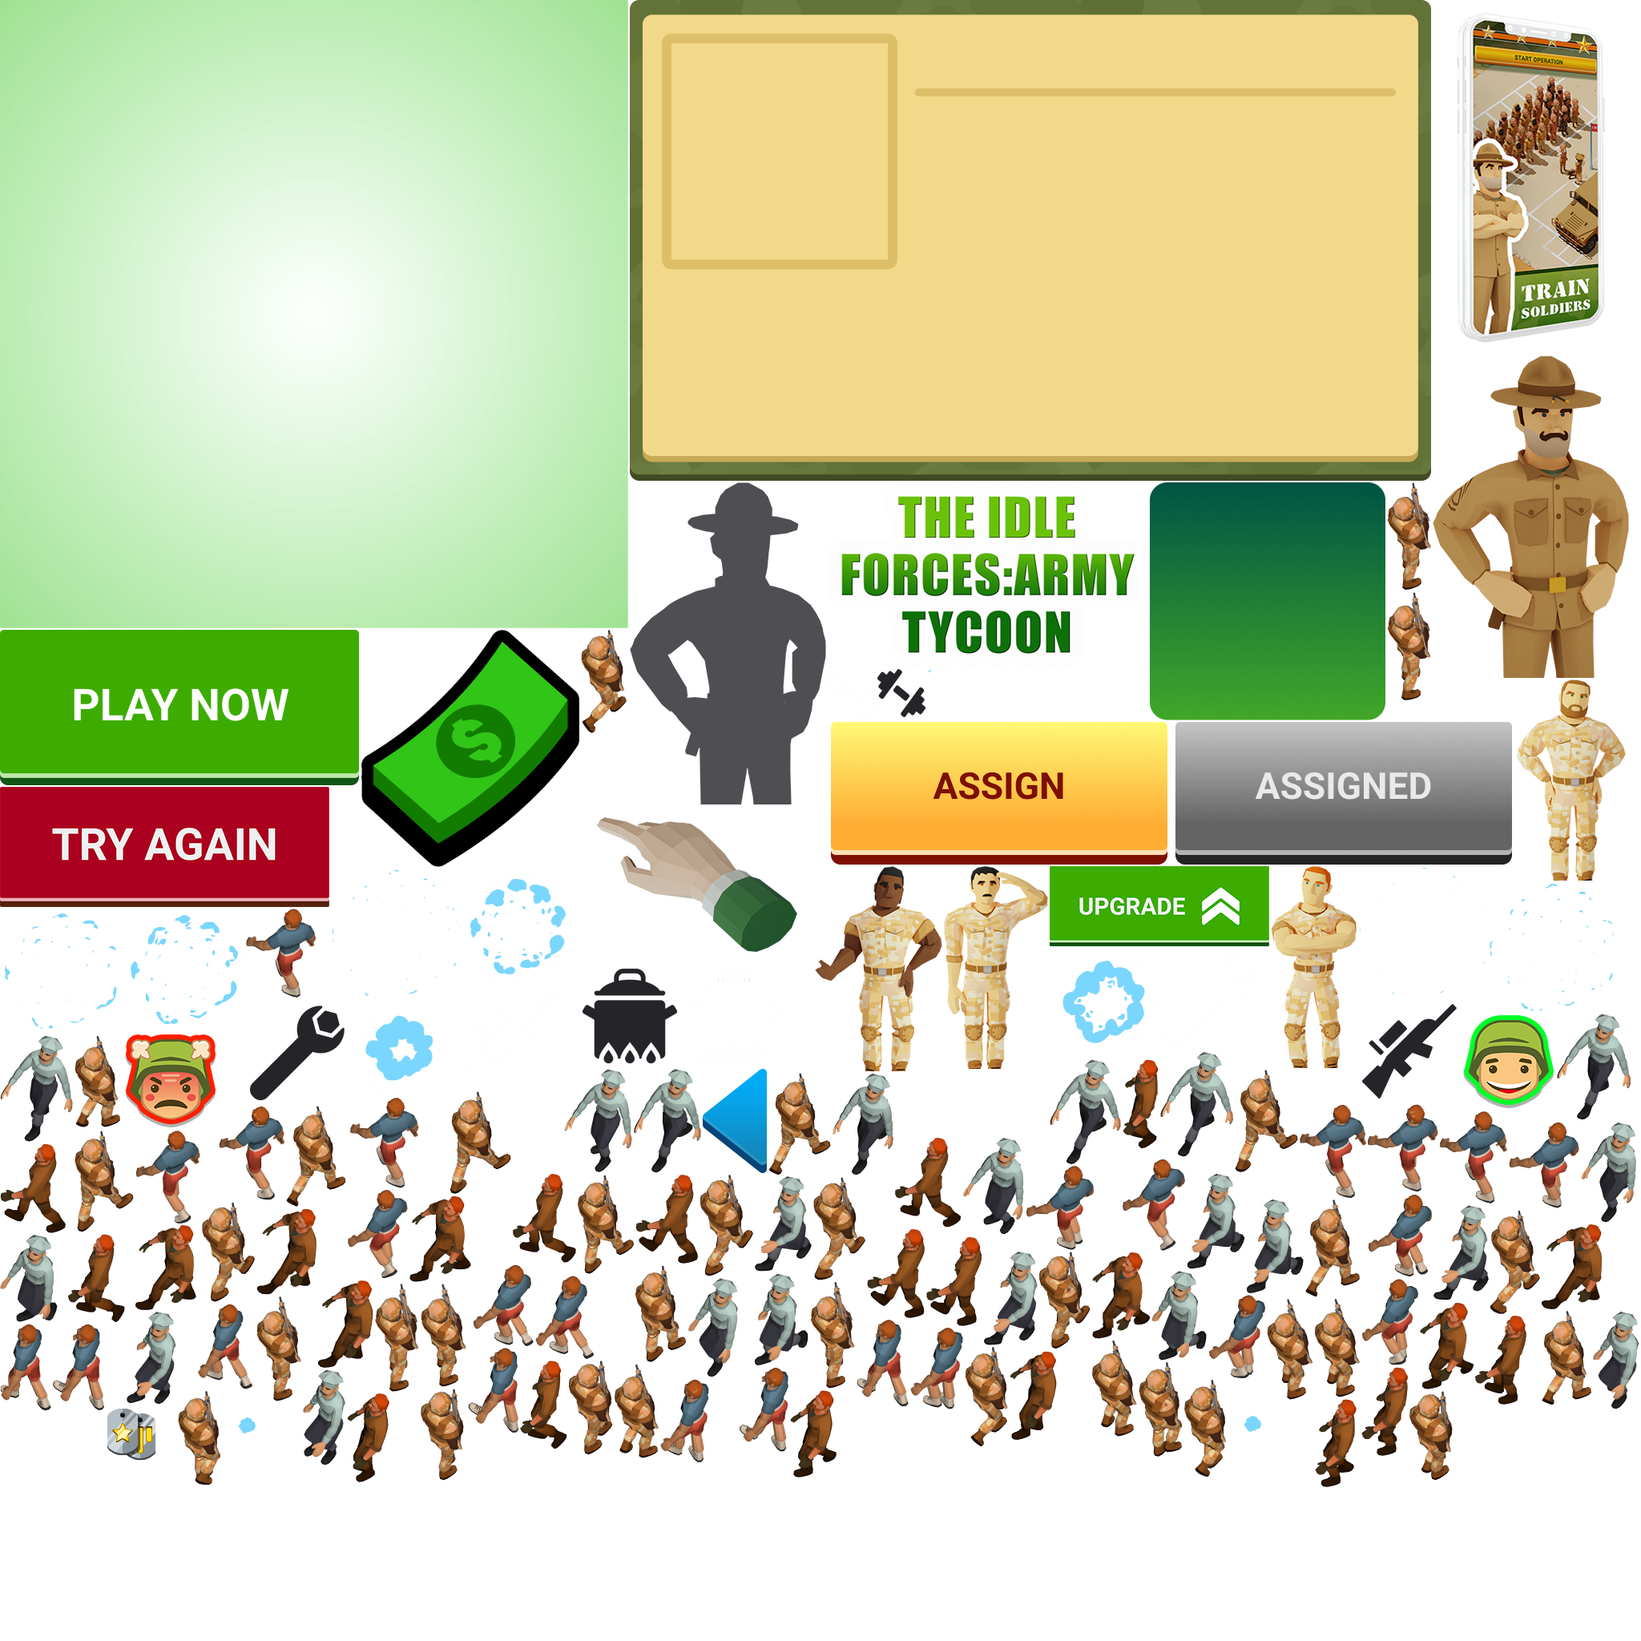
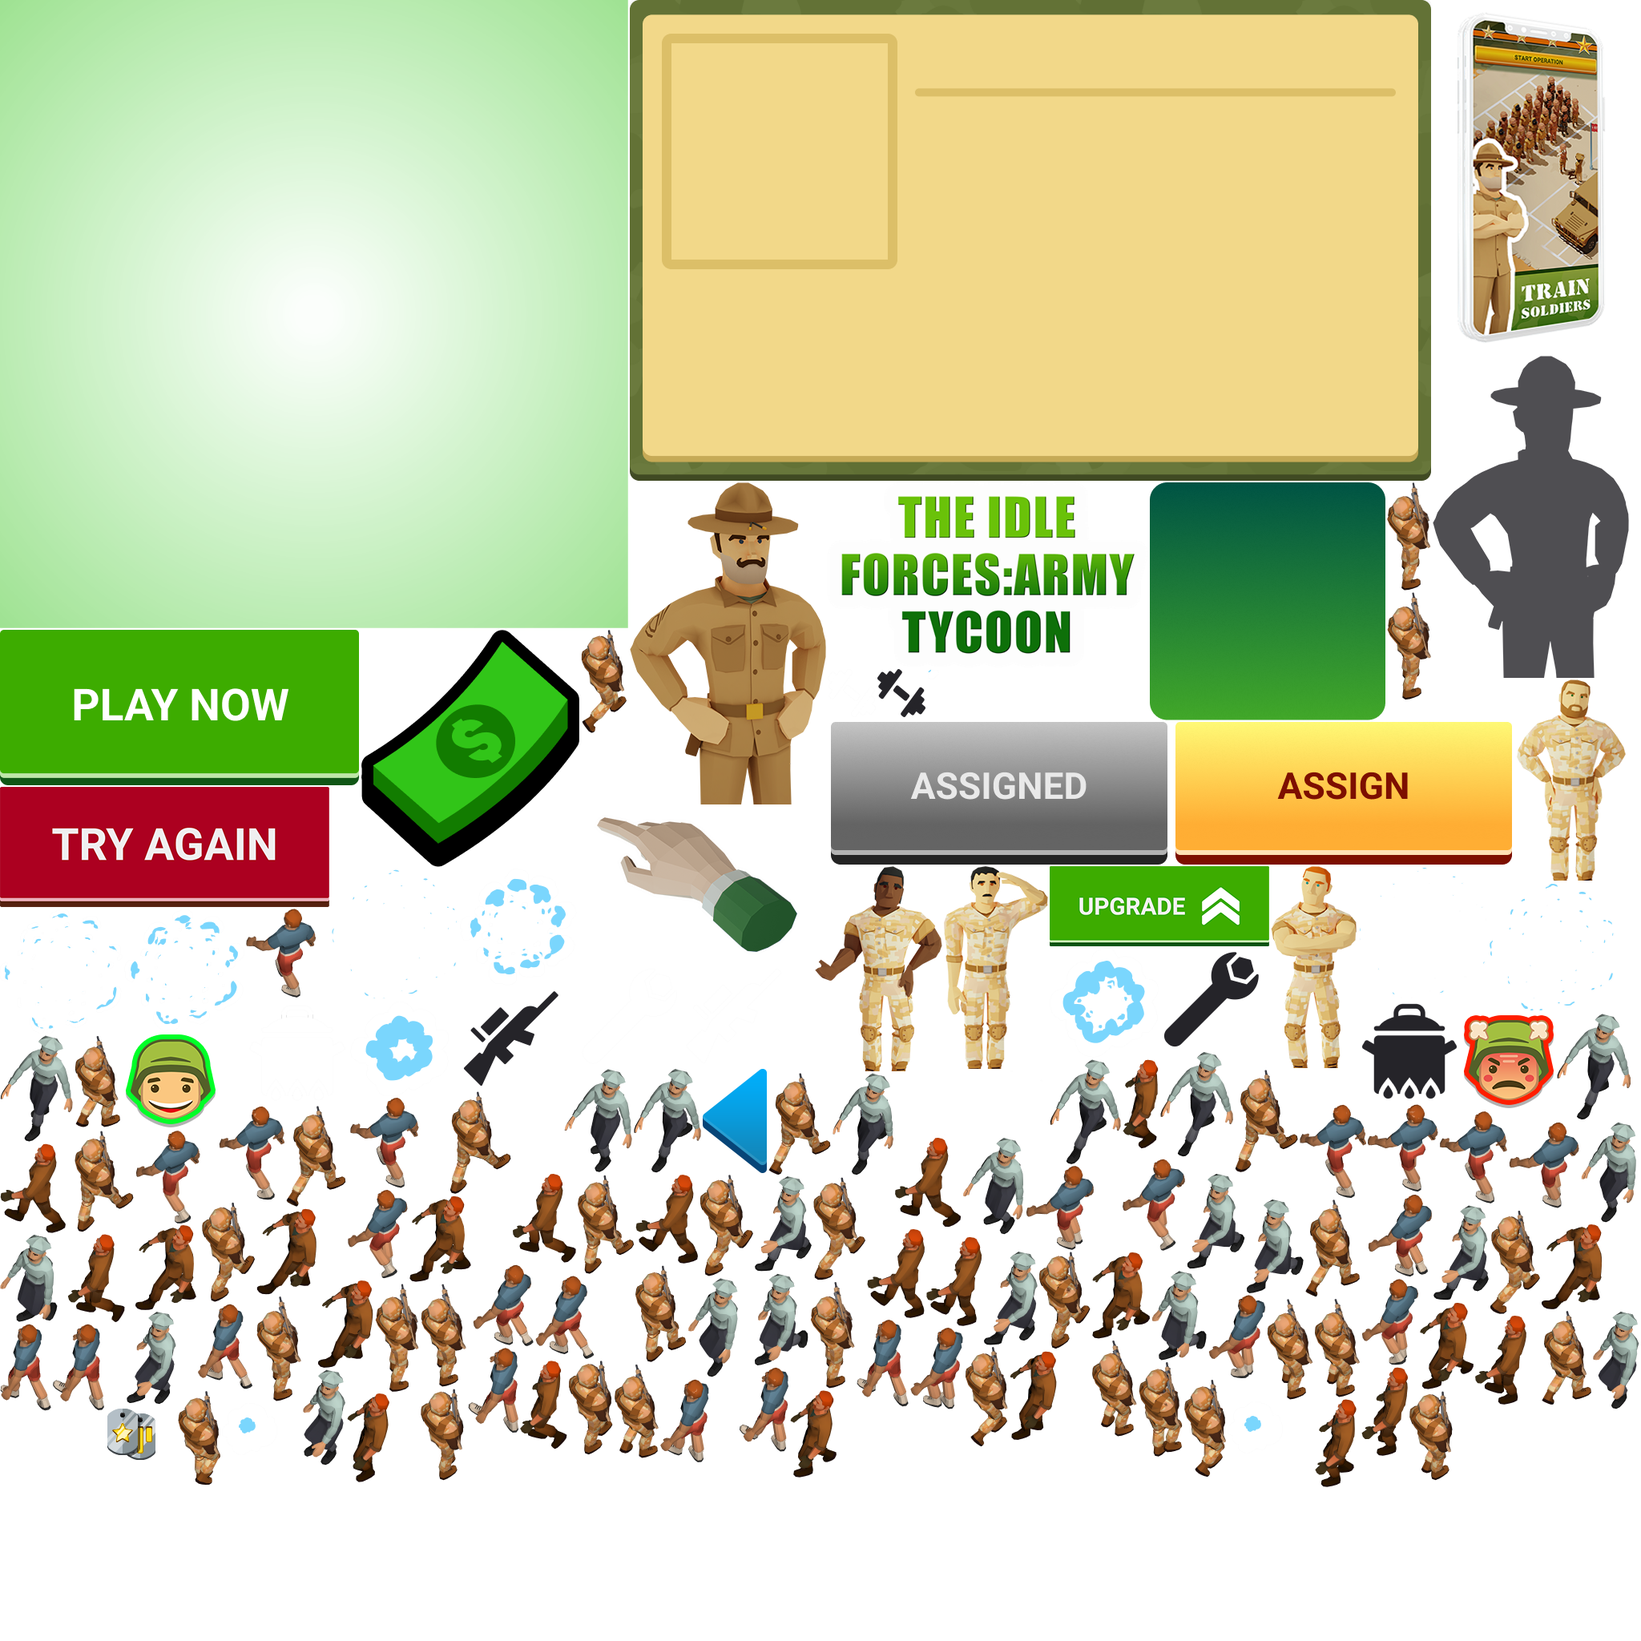
Add files via upload

diff --git a/index.html b/index.html
@@ -19,7 +19,7 @@
 var p; // shortcut to reference prototypes
 var lib={};var ss={};var img={};
 lib.ssMetadata = [
-		{name:"index_atlas_P_", frames: [[1033,901,428,178],[1463,901,428,178],[0,0,784,784],[0,982,411,150],[1310,1081,274,100],[877,1334,80,130],[0,786,449,194],[786,0,1000,600],[1157,835,15,13],[277,1751,69,65],[1532,1749,69,65],[437,1250,123,118],[1310,1183,136,137],[574,1084,146,146],[155,1134,150,153],[0,1134,153,156],[1857,1101,158,162],[413,1084,159,164],[1695,1081,160,165],[1178,1336,123,82],[1202,1420,76,121],[704,1334,85,129],[0,1292,91,133],[1943,1265,92,133],[1448,1313,91,131],[1310,1322,89,131],[791,1334,84,130],[1039,1339,76,128],[1973,1400,69,126],[859,1595,62,124],[1988,1636,58,123],[378,1709,53,120],[158,1637,62,116],[1228,1562,67,117],[1789,1504,69,119],[942,1468,71,119],[1481,1465,73,119],[1556,1497,71,117],[942,1589,67,115],[1437,1586,69,112],[0,1541,72,109],[1448,1183,128,128],[307,1250,128,128],[1825,1265,116,120],[155,1289,116,120],[132,1755,64,70],[722,1204,128,128],[852,1204,128,128],[1033,835,60,60],[1095,835,60,60],[574,1232,128,128],[1695,1248,128,128],[1017,1081,159,256],[1893,848,136,251],[1586,1081,107,252],[1178,1081,130,253],[725,1006,290,196],[433,1739,53,111],[1260,1686,59,111],[397,1598,69,109],[320,1508,75,108],[1924,1528,76,106],[169,1529,76,106],[511,1492,77,108],[1363,1563,72,108],[1772,1625,67,109],[986,1735,58,109],[1641,1746,52,110],[1699,1706,58,111],[1841,1642,64,111],[1156,1543,70,112],[1082,1534,72,111],[793,1466,78,111],[0,1427,82,112],[1117,1420,83,112],[640,1465,79,111],[84,1540,72,110],[649,1698,59,111],[1401,1322,45,112],[451,786,272,296],[1033,602,400,231],[1508,1616,71,104],[1136,1657,66,102],[824,1721,61,104],[923,1706,61,106],[584,1682,63,106],[66,1652,64,108],[1069,1647,65,109],[0,1652,64,109],[247,1627,68,107],[668,1592,74,104],[590,1578,76,102],[1707,1490,80,104],[1280,1455,85,105],[1883,1400,88,108],[1707,1378,88,110],[307,1134,88,111],[437,1370,86,113],[1797,1387,84,115],[1622,1378,83,117],[273,1380,82,118],[169,1411,81,116],[1401,1446,78,115],[434,1485,75,111],[1699,1596,71,108],[1435,602,294,297],[1788,444,245,402],[786,602,245,402],[1759,1736,54,112],[525,1733,54,115],[710,1698,55,118],[1297,1562,64,122],[252,1500,66,125],[873,1466,67,127],[1015,1469,65,129],[1860,1510,62,130],[725,786,58,129],[1204,1681,54,124],[1478,1722,52,122],[222,1736,53,117],[1421,1700,55,118],[793,1579,64,121],[721,1466,70,124],[93,1411,74,127],[562,1362,76,128],[1541,1335,79,128],[959,1339,78,127],[357,1380,75,126],[1629,1497,68,122],[1924,1636,62,117],[93,1292,57,115],[767,1702,55,118],[1363,1673,56,120],[1641,1621,56,123],[1581,1621,58,126],[525,1602,57,129],[320,1618,56,131],[1011,1600,56,133],[1731,602,55,135],[468,1602,55,135],[1731,739,55,135],[1788,0,256,442]]},
+		{name:"index_atlas_P_", frames: [[1463,901,428,178],[1033,901,428,178],[0,0,784,784],[0,982,411,150],[1310,1081,274,100],[877,1334,80,130],[0,786,449,194],[786,0,1000,600],[1157,835,15,13],[1532,1749,69,65],[277,1751,69,65],[437,1250,123,118],[1310,1183,136,137],[574,1084,146,146],[155,1134,150,153],[0,1134,153,156],[1857,1101,158,162],[413,1084,159,164],[1695,1081,160,165],[1178,1336,123,82],[1202,1420,76,121],[704,1334,85,129],[0,1292,91,133],[1943,1265,92,133],[1448,1313,91,131],[1310,1322,89,131],[791,1334,84,130],[1039,1339,76,128],[1973,1400,69,126],[859,1595,62,124],[1988,1636,58,123],[378,1709,53,120],[158,1637,62,116],[1228,1562,67,117],[1789,1504,69,119],[942,1468,71,119],[1481,1465,73,119],[1556,1497,71,117],[942,1589,67,115],[1437,1586,69,112],[0,1541,72,109],[722,1204,128,128],[1448,1183,128,128],[155,1289,116,120],[1825,1265,116,120],[132,1755,64,70],[1695,1248,128,128],[307,1250,128,128],[1033,835,60,60],[1095,835,60,60],[852,1204,128,128],[574,1232,128,128],[1017,1081,159,256],[1893,848,136,251],[1586,1081,107,252],[1178,1081,130,253],[725,1006,290,196],[433,1739,53,111],[1260,1686,59,111],[397,1598,69,109],[320,1508,75,108],[1924,1528,76,106],[169,1529,76,106],[511,1492,77,108],[1363,1563,72,108],[1772,1625,67,109],[986,1735,58,109],[1641,1746,52,110],[1699,1706,58,111],[1841,1642,64,111],[1156,1543,70,112],[1082,1534,72,111],[793,1466,78,111],[0,1427,82,112],[1117,1420,83,112],[640,1465,79,111],[84,1540,72,110],[649,1698,59,111],[1401,1322,45,112],[451,786,272,296],[1033,602,400,231],[1508,1616,71,104],[1136,1657,66,102],[824,1721,61,104],[923,1706,61,106],[584,1682,63,106],[66,1652,64,108],[1069,1647,65,109],[0,1652,64,109],[247,1627,68,107],[668,1592,74,104],[590,1578,76,102],[1707,1490,80,104],[1280,1455,85,105],[1883,1400,88,108],[1707,1378,88,110],[307,1134,88,111],[437,1370,86,113],[1797,1387,84,115],[1622,1378,83,117],[273,1380,82,118],[169,1411,81,116],[1401,1446,78,115],[434,1485,75,111],[1699,1596,71,108],[1435,602,294,297],[786,602,245,402],[1788,444,245,402],[1759,1736,54,112],[525,1733,54,115],[710,1698,55,118],[1297,1562,64,122],[252,1500,66,125],[873,1466,67,127],[1015,1469,65,129],[1860,1510,62,130],[725,786,58,129],[1204,1681,54,124],[1478,1722,52,122],[222,1736,53,117],[1421,1700,55,118],[793,1579,64,121],[721,1466,70,124],[93,1411,74,127],[562,1362,76,128],[1541,1335,79,128],[959,1339,78,127],[357,1380,75,126],[1629,1497,68,122],[1924,1636,62,117],[93,1292,57,115],[767,1702,55,118],[1363,1673,56,120],[1641,1621,56,123],[1581,1621,58,126],[525,1602,57,129],[320,1618,56,131],[1011,1600,56,133],[1731,739,55,135],[1731,602,55,135],[468,1602,55,135],[1788,0,256,442]]},
 		{name:"index_atlas_NP_", frames: [[1082,0,500,170],[0,1082,1024,1024],[0,0,1080,1080],[1026,1082,1000,1000],[0,2108,1001,1000],[1026,2084,1000,1000],[1003,3086,1000,1000]]}
 ];
 // symbols:
@@ -4035,6 +4035,7 @@ p.nominalBounds = new cjs.Rectangle(-350,-210,700,420);
 	this.card3 = new lib.card_3();
 	this.card3.name = "card3";
 	this.card3.parent = this;
+	this.card3.setTransform(-1000,0);
 	this.timeline.addTween(cjs.Tween.get(this.card3).wait(1));
 	// card_2
 	this.card2 = new lib.card_2();
@@ -4046,7 +4047,6 @@ p.nominalBounds = new cjs.Rectangle(-350,-210,700,420);
 	this.card1 = new lib.card_1();
 	this.card1.name = "card1";
 	this.card1.parent = this;
-	this.card1.setTransform(999.7,0);
 	this.timeline.addTween(cjs.Tween.get(this.card1).wait(1));
 	// arrowL
 	this.arrowL = new lib.button_anim();
@@ -4060,7 +4060,7 @@ p.nominalBounds = new cjs.Rectangle(-350,-210,700,420);
 	this.arrowR.parent = this;
 	this.arrowR.setTransform(422.3,0,1,1,0,0,180);
 	this.timeline.addTween(cjs.Tween.get(this.arrowR).wait(1));
-}).prototype = getMCSymbolPrototype(lib.ui_soldiers, new cjs.Rectangle(-472.5,-1373.4,1822.3,1768.8), null);
+}).prototype = getMCSymbolPrototype(lib.ui_soldiers, new cjs.Rectangle(-1350,-1373.4,2699.7,1768.8), null);
 (lib.background = function(mode,startPosition,loop) {
 	this.initialize(mode,startPosition,loop,{});
 	// timeline functions:
@@ -4273,6 +4273,7 @@ p.nominalBounds = new cjs.Rectangle(-2048,-2048,4096,4096);
 		var money = ui.text.money;
 		var playnowBtn = main.playnow;
 		var failBtn = main.failbtn;
+		var counter = 0;
 		var card1 = ui.card1;
 		var card2 = ui.card2;
 		var card3 = ui.card3;
@@ -4335,7 +4336,7 @@ p.nominalBounds = new cjs.Rectangle(-2048,-2048,4096,4096);
 			resizeCanvas(canvas, ctx, document.documentElement.clientWidth, document.documentElement.clientHeight);
 		}
 		onResize();
-		var currentCard = card3;
+		var currentCard = card1;
 		arrowR.addEventListener('click', function () {
 			//move soldier card left
 			if (arrowR.clickable) {
@@ -4343,45 +4344,7 @@ p.nominalBounds = new cjs.Rectangle(-2048,-2048,4096,4096);
 				swoosh.play();
 				btnSFX.play();
 				ui.arrowhand.visible = false;
-				arrowR.clickable = false;
-				arrowL.clickable = false;
-				if (currentCard == card1) {
-					card4.x = 2000 * main.scaleX;
-					currentCard = card4;
-					createjs.Tween.get(card1).to({
-						x: -2000 * main.scaleX
-					}, 330, createjs.Ease.cubicInOut);
-					createjs.Tween.get(card4).to({
-						x: 0
-					}, 330, createjs.Ease.cubicInOut).call(arrowsClickable);
-				} else if (currentCard == card2) {
-					card1.x = 2000 * main.scaleX;
-					currentCard = card1;
-					createjs.Tween.get(card2).to({
-						x: -2000 * main.scaleX
-					}, 330, createjs.Ease.cubicInOut);
-					createjs.Tween.get(card1).to({
-						x: 0
-					}, 330, createjs.Ease.cubicInOut).call(arrowsClickable);
-				} else if (currentCard == card3) {
-					card2.x = 2000 * main.scaleX;
-					currentCard = card2;
-					createjs.Tween.get(card3).to({
-						x: -2000 * main.scaleX
-					}, 330, createjs.Ease.cubicInOut);
-					createjs.Tween.get(card2).to({
-						x: 0
-					}, 330, createjs.Ease.cubicInOut).call(arrowsClickable);
-				} else if (currentCard == card4) {
-					card3.x = 2000 * main.scaleX;
-					currentCard = card3;
-					createjs.Tween.get(card4).to({
-						x: -2000 * main.scaleX
-					}, 330, createjs.Ease.cubicInOut);
-					createjs.Tween.get(card3).to({
-						x: 0
-					}, 330, createjs.Ease.cubicInOut).call(arrowsClickable);
-				}
+				moveCardsRight();
 			}
 		});
 		arrowL.addEventListener('click', function () {
@@ -4391,47 +4354,134 @@ p.nominalBounds = new cjs.Rectangle(-2048,-2048,4096,4096);
 				swoosh.play();
 				btnSFX.play();
 				ui.arrowhand.visible = false;
+				moveCardsLeft();
+			}
+		});
+		function moveCardsRight() {
+			arrowR.clickable = false;
+			arrowL.clickable = false;
+			if (currentCard == card1) {
+				card4.x = 2000 * main.scaleX;
+				currentCard = card4;
+				createjs.Tween.get(card1).to({
+					x: -2000 * main.scaleX
+				}, 330, createjs.Ease.cubicInOut);
+				createjs.Tween.get(card4).to({
+					x: 0
+				}, 330, createjs.Ease.cubicInOut).call(arrowsClickable);
+			} else if (currentCard == card2) {
+				card1.x = 2000 * main.scaleX;
+				currentCard = card1;
+				createjs.Tween.get(card2).to({
+					x: -2000 * main.scaleX
+				}, 330, createjs.Ease.cubicInOut);
+				createjs.Tween.get(card1).to({
+					x: 0
+				}, 330, createjs.Ease.cubicInOut).call(arrowsClickable);
+			} else if (currentCard == card3) {
+				card2.x = 2000 * main.scaleX;
+				currentCard = card2;
+				createjs.Tween.get(card3).to({
+					x: -2000 * main.scaleX
+				}, 330, createjs.Ease.cubicInOut);
+				createjs.Tween.get(card2).to({
+					x: 0
+				}, 330, createjs.Ease.cubicInOut).call(arrowsClickable);
+			} else if (currentCard == card4) {
+				card3.x = 2000 * main.scaleX;
+				currentCard = card3;
+				createjs.Tween.get(card4).to({
+					x: -2000 * main.scaleX
+				}, 330, createjs.Ease.cubicInOut);
+				createjs.Tween.get(card3).to({
+					x: 0
+				}, 330, createjs.Ease.cubicInOut).call(arrowsClickable);
+			}
+		}
+		function moveCardsLeft() {
+			arrowR.clickable = false;
+			arrowL.clickable = false;
+			if (currentCard == card1) {
+				card2.x = -2000 * main.scaleX;
+				currentCard = card2;
+				createjs.Tween.get(card1).to({
+					x: 2000 * main.scaleX
+				}, 330, createjs.Ease.cubicInOut);
+				createjs.Tween.get(card2).to({
+					x: 0
+				}, 330, createjs.Ease.cubicInOut).call(arrowsClickable);
+			} else if (currentCard == card2) {
+				card3.x = -2000 * main.scaleX;
+				currentCard = card3;
+				createjs.Tween.get(card2).to({
+					x: 2000 * main.scaleX
+				}, 330, createjs.Ease.cubicInOut);
+				createjs.Tween.get(card3).to({
+					x: 0
+				}, 330, createjs.Ease.cubicInOut).call(arrowsClickable);
+			} else if (currentCard == card3) {
+				card4.x = -2000 * main.scaleX;
+				currentCard = card4;
+				createjs.Tween.get(card3).to({
+					x: 2000 * main.scaleX
+				}, 330, createjs.Ease.cubicInOut);
+				createjs.Tween.get(card4).to({
+					x: 0
+				}, 330, createjs.Ease.cubicInOut).call(arrowsClickable);
+			} else if (currentCard == card4) {
+				card1.x = -2000 * main.scaleX;
+				currentCard = card1;
+				createjs.Tween.get(card4).to({
+					x: 2000 * main.scaleX
+				}, 330, createjs.Ease.cubicInOut);
+				createjs.Tween.get(card1).to({
+					x: 0
+				}, 330, createjs.Ease.cubicInOut).call(arrowsClickable);
+			}
+		}
+		function changeCardsAfterAssign() {
+			if (counter < 4) {
 				arrowR.clickable = false;
 				arrowL.clickable = false;
 				if (currentCard == card1) {
-					card2.x = -2000 * main.scaleX;
-					currentCard = card2;
-					createjs.Tween.get(card1).to({
-						x: 2000 * main.scaleX
-					}, 330, createjs.Ease.cubicInOut);
-					createjs.Tween.get(card2).to({
-						x: 0
-					}, 330, createjs.Ease.cubicInOut).call(arrowsClickable);
-				} else if (currentCard == card2) {
-					card3.x = -2000 * main.scaleX;
-					currentCard = card3;
-					createjs.Tween.get(card2).to({
-						x: 2000 * main.scaleX
-					}, 330, createjs.Ease.cubicInOut);
-					createjs.Tween.get(card3).to({
-						x: 0
-					}, 330, createjs.Ease.cubicInOut).call(arrowsClickable);
-				} else if (currentCard == card3) {
-					card4.x = -2000 * main.scaleX;
+					card4.x = 2000 * main.scaleX;
 					currentCard = card4;
-					createjs.Tween.get(card3).to({
-						x: 2000 * main.scaleX
-					}, 330, createjs.Ease.cubicInOut);
+					createjs.Tween.get(card1).to({
+						x: -2000 * main.scaleX
+					}, 530, createjs.Ease.cubicInOut);
 					createjs.Tween.get(card4).to({
 						x: 0
-					}, 330, createjs.Ease.cubicInOut).call(arrowsClickable);
-				} else if (currentCard == card4) {
-					card1.x = -2000 * main.scaleX;
+					}, 530, createjs.Ease.cubicInOut).call(arrowsClickable);
+				} else if (currentCard == card2) {
+					card1.x = 2000 * main.scaleX;
 					currentCard = card1;
-					createjs.Tween.get(card4).to({
-						x: 2000 * main.scaleX
-					}, 330, createjs.Ease.cubicInOut);
+					createjs.Tween.get(card2).to({
+						x: -2000 * main.scaleX
+					}, 530, createjs.Ease.cubicInOut);
 					createjs.Tween.get(card1).to({
 						x: 0
-					}, 330, createjs.Ease.cubicInOut).call(arrowsClickable);
+					}, 530, createjs.Ease.cubicInOut).call(arrowsClickable);
+				} else if (currentCard == card3) {
+					card2.x = 2000 * main.scaleX;
+					currentCard = card2;
+					createjs.Tween.get(card3).to({
+						x: -2000 * main.scaleX
+					}, 530, createjs.Ease.cubicInOut);
+					createjs.Tween.get(card2).to({
+						x: 0
+					}, 530, createjs.Ease.cubicInOut).call(arrowsClickable);
+				} else if (currentCard == card4) {
+					card3.x = 2000 * main.scaleX;
+					currentCard = card3;
+					createjs.Tween.get(card4).to({
+						x: -2000 * main.scaleX
+					}, 530, createjs.Ease.cubicInOut);
+					createjs.Tween.get(card3).to({
+						x: 0
+					}, 530, createjs.Ease.cubicInOut).call(arrowsClickable);
 				}
 			}
-		});
+		}
 		function arrowsClickable() {
 			arrowL.clickable = true;
 			arrowR.clickable = true;
@@ -4455,7 +4505,7 @@ p.nominalBounds = new cjs.Rectangle(-2048,-2048,4096,4096);
 				scaleY: initScaleY2,
 				y: 0,
 				alpha: 1
-			}, 330, createjs.Ease.cubicInOut).call(arrowsClickable);
+			}, 330, createjs.Ease.cubicInOut).call(changeCardsAfterAssign);
 		}
 		var initScaleX1 = card1.scaleX;
 		var initScaleY1 = card1.scaleY;
@@ -4541,6 +4591,7 @@ p.nominalBounds = new cjs.Rectangle(-2048,-2048,4096,4096);
 		}
 		garage.addEventListener('click', function () {
 			if (garage.clickable) {
+				counter++;
 				currentCard.btn.gotoAndStop(13);
 				garage.assigned = true;
 				if (currentCard == card2) {
@@ -4563,10 +4614,11 @@ p.nominalBounds = new cjs.Rectangle(-2048,-2048,4096,4096);
 					training.clickable = false;
 					shooting.clickable = false;
 					restoreCurrentCard();
+					arrowsClickable();
 					createjs.Tween.get(garage).to({
 						alpha: 0,
 						visible: false
-					}, 330, createjs.Ease.cubicInOut).call(arrowsClickable).call(function () {
+					}, 330, createjs.Ease.cubicInOut).call(function () {
 						currentCard.gotoAndPlay(1);
 					});
 				}
@@ -4574,6 +4626,7 @@ p.nominalBounds = new cjs.Rectangle(-2048,-2048,4096,4096);
 		});
 		canteen.addEventListener('click', function () {
 			if (canteen.clickable) {
+				counter++;
 				currentCard.btn.gotoAndStop(13);
 				canteen.assigned = true;
 				if (currentCard == card3) {
@@ -4596,10 +4649,11 @@ p.nominalBounds = new cjs.Rectangle(-2048,-2048,4096,4096);
 					training.clickable = false;
 					shooting.clickable = false;
 					restoreCurrentCard();
+					arrowsClickable();
 					createjs.Tween.get(canteen).to({
 						alpha: 0,
 						visible: false
-					}, 330, createjs.Ease.cubicInOut).call(arrowsClickable).call(function () {
+					}, 330, createjs.Ease.cubicInOut).call(function () {
 						currentCard.gotoAndPlay(1);
 					});
 				}
@@ -4607,6 +4661,7 @@ p.nominalBounds = new cjs.Rectangle(-2048,-2048,4096,4096);
 		});
 		training.addEventListener('click', function () {
 			if (training.clickable) {
+				counter++;
 				currentCard.btn.gotoAndStop(13);
 				training.assigned = true;
 				if (currentCard == card1) {
@@ -4629,10 +4684,11 @@ p.nominalBounds = new cjs.Rectangle(-2048,-2048,4096,4096);
 					training.clickable = false;
 					shooting.clickable = false;
 					restoreCurrentCard();
+					arrowsClickable();
 					createjs.Tween.get(training).to({
 						alpha: 0,
 						visible: false
-					}, 330, createjs.Ease.cubicInOut).call(arrowsClickable).call(function () {
+					}, 330, createjs.Ease.cubicInOut).call(function () {
 						currentCard.gotoAndPlay(1);
 					});
 				}
@@ -4640,6 +4696,7 @@ p.nominalBounds = new cjs.Rectangle(-2048,-2048,4096,4096);
 		});
 		shooting.addEventListener('click', function () {
 			if (shooting.clickable) {
+				counter++;
 				currentCard.btn.gotoAndStop(13);
 				shooting.assigned = true;
 				if (currentCard == card4) {
@@ -4662,10 +4719,11 @@ p.nominalBounds = new cjs.Rectangle(-2048,-2048,4096,4096);
 					training.clickable = false;
 					shooting.clickable = false;
 					restoreCurrentCard();
+					arrowsClickable();
 					createjs.Tween.get(shooting).to({
 						alpha: 0,
 						visible: false
-					}, 330, createjs.Ease.cubicInOut).call(arrowsClickable).call(function () {
+					}, 330, createjs.Ease.cubicInOut).call(function () {
 						currentCard.gotoAndPlay(1);
 					});
 				}
@@ -4813,8 +4871,8 @@ lib.properties = {
 	color: "#FFFFFF",
 	opacity: 1.00,
 	manifest: [
-		{src:"index_atlas_P_.png?1688659035770", id:"index_atlas_P_"},
-		{src:"index_atlas_NP_.jpg?1688659035771", id:"index_atlas_NP_"}
+		{src:"index_atlas_P_.png?1688720384299", id:"index_atlas_P_"},
+		{src:"index_atlas_NP_.jpg?1688720384299", id:"index_atlas_NP_"}
 	],
 	preloads: []
 };
